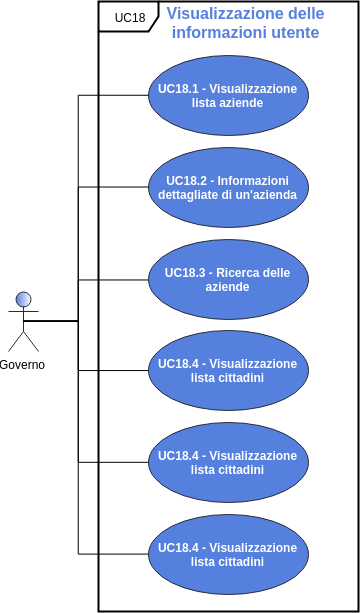
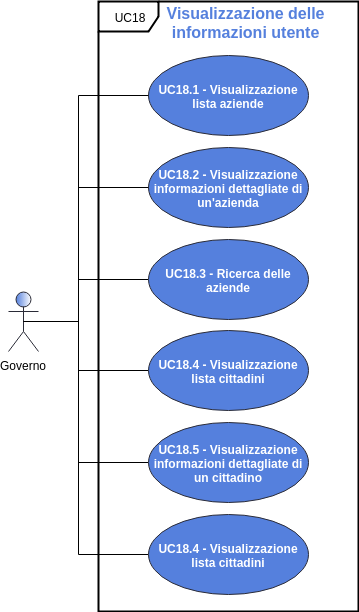
[AdR] Sistemate alcune immagini

diff --git a/02-RP/Esterni/Analisi_dei_requisiti/res/sections/UC/UC1-2-GuidaRegistrazione.tex b/02-RP/Esterni/Analisi_dei_requisiti/res/sections/UC/UC1-2-GuidaRegistrazione.tex
@@ -1,9 +1,8 @@
-
 \subsubsection{UC1 - Visualizzazione guida introduttiva}
 \begin{figure}[h]
 	\includegraphics[width=6cm]{res/images/UC1-Guida.png}
 	\centering
-	\caption{Registrazione ed errori annessi}
+	\caption{UC1 - Visualizzazione guida introduttiva}
 \end{figure}
 \begin{itemize}
 	\item \textbf{Attori Primari}: utente generico;
@@ -17,13 +16,13 @@
 \begin{figure}[h]
 	\includegraphics[width=14cm]{res/images/UC2Registrazione.png}
 	\centering
-	\caption{Registrazione ed errori annessi}
+	\caption{Schema generale: registrazione ed errori annessi}
 \end{figure}
 \subsubsection{UC2 - Registrazione}
 \begin{figure}[H]
 	\includegraphics[width=10cm]{res/images/UC2.png}
 	\centering
-	\caption{Registrazione}
+	\caption{UC2 - Registrazione}
 \end{figure}
 \begin{itemize}
 	\item \textbf{Attori Primari}: utente non autenticato;
@@ -35,15 +34,15 @@
 	
 		\item l'utente vuole registrarsi come normale \textbf{cittadino}: 
 		\begin{enumerate}[label=\roman*.]
-			\item l'utente inserisce i dati anagrafici [UC2.3];
-			\item l'utente conferma ed invia i dati inseriti [UC2.8].
+			\item l'utente inserisce i dati anagrafici [UC2.2];
+			\item l'utente conferma ed invia i dati inseriti [UC2.4].
 		\end{enumerate}
 		
 		
 		\item l'utente vuole registrare la propria \textbf{azienda}:
 		\begin{enumerate}[label=\roman*.]
-			\item l'utente inserisce i dati aziendali [UC2.4];
-			\item l'utente conferma ed invia i dati inseriti [UC2.8].
+			\item l'utente inserisce i dati aziendali [UC2.3];
+			\item l'utente conferma ed invia i dati inseriti [UC2.4].
 		\end{enumerate}
 		
 		

diff --git a/02-RP/Esterni/Analisi_dei_requisiti/res/sections/UC/UC11-GestioneUtenti.tex b/02-RP/Esterni/Analisi_dei_requisiti/res/sections/UC/UC11-GestioneUtenti.tex
@@ -44,7 +44,7 @@
 	\item \textbf{Precondizione}: il sistema riconosce che l'utente è autenticato con privilegi governativi ed ha richiesto di ottenere la lista di tutte le aziende;
 	\item \textbf{Postcondizione}: il governo ottiene dal sistema la lista delle aziende registrate, con associate le operazioni che può effettuare su di esse.
 \end{itemize}
-\subsubsection{UC18.2 - Informazioni dettagliate di un'azienda}
+\subsubsection{UC18.2 - Visualizzazione informazioni dettagliate di un'azienda}
 
 \begin{itemize}
 	\item \textbf{Attori Primari}: governo;
@@ -90,7 +90,7 @@
 \end{itemize}
 
 
-\subsubsection{UC18.5 - Informazioni dettagliate di un cittadino}
+\subsubsection{UC18.5 - Visualizzazione informazioni dettagliate di un cittadino}
 \begin{itemize}
 	\item \textbf{Attori Primari}: governo;
 	\item \textbf{Descrizione}: il governo ottiene la lista dei cittadini. Per ognuno di essi, oltre alle informazioni generali precedentemente descritte,vengono visualizzate:

diff --git a/02-RP/Esterni/Analisi_dei_requisiti/res/sections/UC/UC8-GestioneBeniVenduti.tex b/02-RP/Esterni/Analisi_dei_requisiti/res/sections/UC/UC8-GestioneBeniVenduti.tex
@@ -20,13 +20,13 @@
 \begin{figure}[h]
 	\includegraphics[width=7cm]{res/images/UC15.png}
 	\centering
-	\caption{UC15.1 - Inserimento prodotto, sottocasi}
+	\caption{UC15.1 - Gestione prodotti in vendita, sottocasi}
 \end{figure}
 \subsubsection{UC15.1 - Inserimento prodotto}
 \begin{figure}[h]
 	\includegraphics[width=8cm]{res/images/UC15-1.png}
 	\centering
-	\caption{UC15.1 - Inserimento prodotto}
+	\caption{UC15.1 - Inserimento prodotto, sottocasi}
 \end{figure}
 \begin{itemize}
 	\item \textbf{Attori Primari}: azienda;
@@ -106,7 +106,7 @@
 \begin{figure}[H]
 	\includegraphics[width=10cm]{res/images/UC15-3.png}
 	\centering
-	\caption{UC8.3 - Modifica prodotto}
+	\caption{UC8.3 - Modifica prodotto, sottocasi}
 \end{figure}
 \begin{itemize}
 	\item \textbf{Attori Primari}: azienda;

diff --git a/02-RP/Esterni/Analisi_dei_requisiti/res/sections/UC/UC3-4-LoginLogout.tex b/02-RP/Esterni/Analisi_dei_requisiti/res/sections/UC/UC3-4-LoginLogout.tex
@@ -1,7 +1,7 @@
 \begin{figure}[h]
 	\includegraphics[width=12cm]{res/images/login.png} %da adattare in larghezza
 	\centering
-	\caption{UC6 - Login ed errori annessi}
+	\caption{Schema generale: login ed errori annessi}
 	
 \end{figure}
 \subsubsection{UC6 - Login automatico}
@@ -53,7 +53,7 @@
 \begin{figure}[h]
 	\includegraphics[width=6cm]{res/images/UC9-Logout.png} %da adattare in larghezza
 	\centering
-	\caption{UC9-Logout}
+	\caption{UC9 - Logout}
 	
 \end{figure}
 \subsubsection{UC9 - Logout}

diff --git a/02-RP/Esterni/Analisi_dei_requisiti/res/sections/UC/UC14CompravenditaAzienda.tex b/02-RP/Esterni/Analisi_dei_requisiti/res/sections/UC/UC14CompravenditaAzienda.tex
@@ -1,7 +1,7 @@
 \begin{figure}[h]
 	\includegraphics[width=6cm]{res/images/UC-Gestione.png}
 	\centering
-	\caption{UC21 e 22- Gestione degli ordini e dell'IVA}
+	\caption{Schema generale: gestione degli ordini e dell'IVA}
 \end{figure}
 \subsubsection{UC21 - Gestione ordini}
 \begin{figure}[h]

diff --git a/02-RP/Esterni/Analisi_dei_requisiti/res/sections/UC/UC9-10-ConiazioneDistribuzioneCubit.tex b/02-RP/Esterni/Analisi_dei_requisiti/res/sections/UC/UC9-10-ConiazioneDistribuzioneCubit.tex
@@ -1,7 +1,7 @@
 \begin{figure}[h]
 	\includegraphics[width=7cm]{res/images/UC-Governo.png}
 	\centering
-	\caption{UC 16-20 - Casi d'uso governativi}
+	\caption{Schema generale: casi d'uso governativi}
 \end{figure}
 \subsubsection{UC16 - Coniazione Cubit}
 \begin{itemize}

diff --git a/02-RP/Esterni/Analisi_dei_requisiti/res/sections/UC/UC5-Visualizzazione-beni.tex b/02-RP/Esterni/Analisi_dei_requisiti/res/sections/UC/UC5-Visualizzazione-beni.tex
@@ -1,7 +1,7 @@
 \begin{figure}[H]
 	\includegraphics[width=6cm]{res/images/benieservizi.png}
 	\centering
-	\caption{Beni e servizi}
+	\caption{Schema generale: beni e servizi}
 \end{figure}
 \subsubsection{UC10 - Visualizzazione beni e servizi}
 
